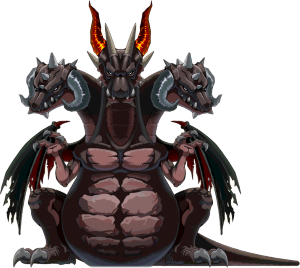
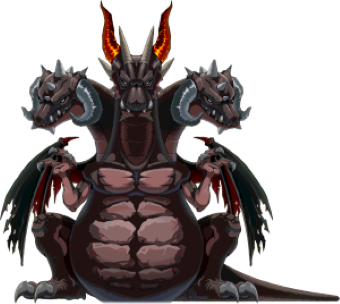
이미지 커밋

diff --git a/knight_game/src/game/ingame/top/ingameimages/CharacterImageUnit.java b/knight_game/src/game/ingame/top/ingameimages/CharacterImageUnit.java
@@ -2,11 +2,11 @@ package game.ingame.top.ingameimages;
 
 import game.ImageUnit;
 
-public class CharacterImageUnit extends InGameImageUnit{
+public class CharacterImageUnit extends InGameImageUnit {
 
 	public CharacterImageUnit(ImageUnit i) {
 		super(i);
-		setLocation(150, 200);
+		setLocation(130, 200);
 	}
-	
+
 }

diff --git a/knight_game/src/game/GameFrame.java b/knight_game/src/game/GameFrame.java
@@ -32,7 +32,7 @@ public class GameFrame extends JFrame {
 
 		Vector<Monster> v = new Vector<>();
 		v.add(new MiniSlime());
-		InGame ingamePanel = new InGame(c, slimes);
+		InGame ingamePanel = new InGame(c, dragons);
 
 		container.setLayout(null);
 		container.add(ingamePanel);

diff --git a/knight_game/src/game/ingame/top/ingameimages/InGameImageUnit.java b/knight_game/src/game/ingame/top/ingameimages/InGameImageUnit.java
@@ -8,7 +8,7 @@ public abstract class InGameImageUnit extends JLabel {
 
 	protected InGameImageUnit(ImageUnit i) {
 		super(i.getUnitImage());
-		setSize(320, 320);
+		setSize(340, 340);
 	}
 
 }
